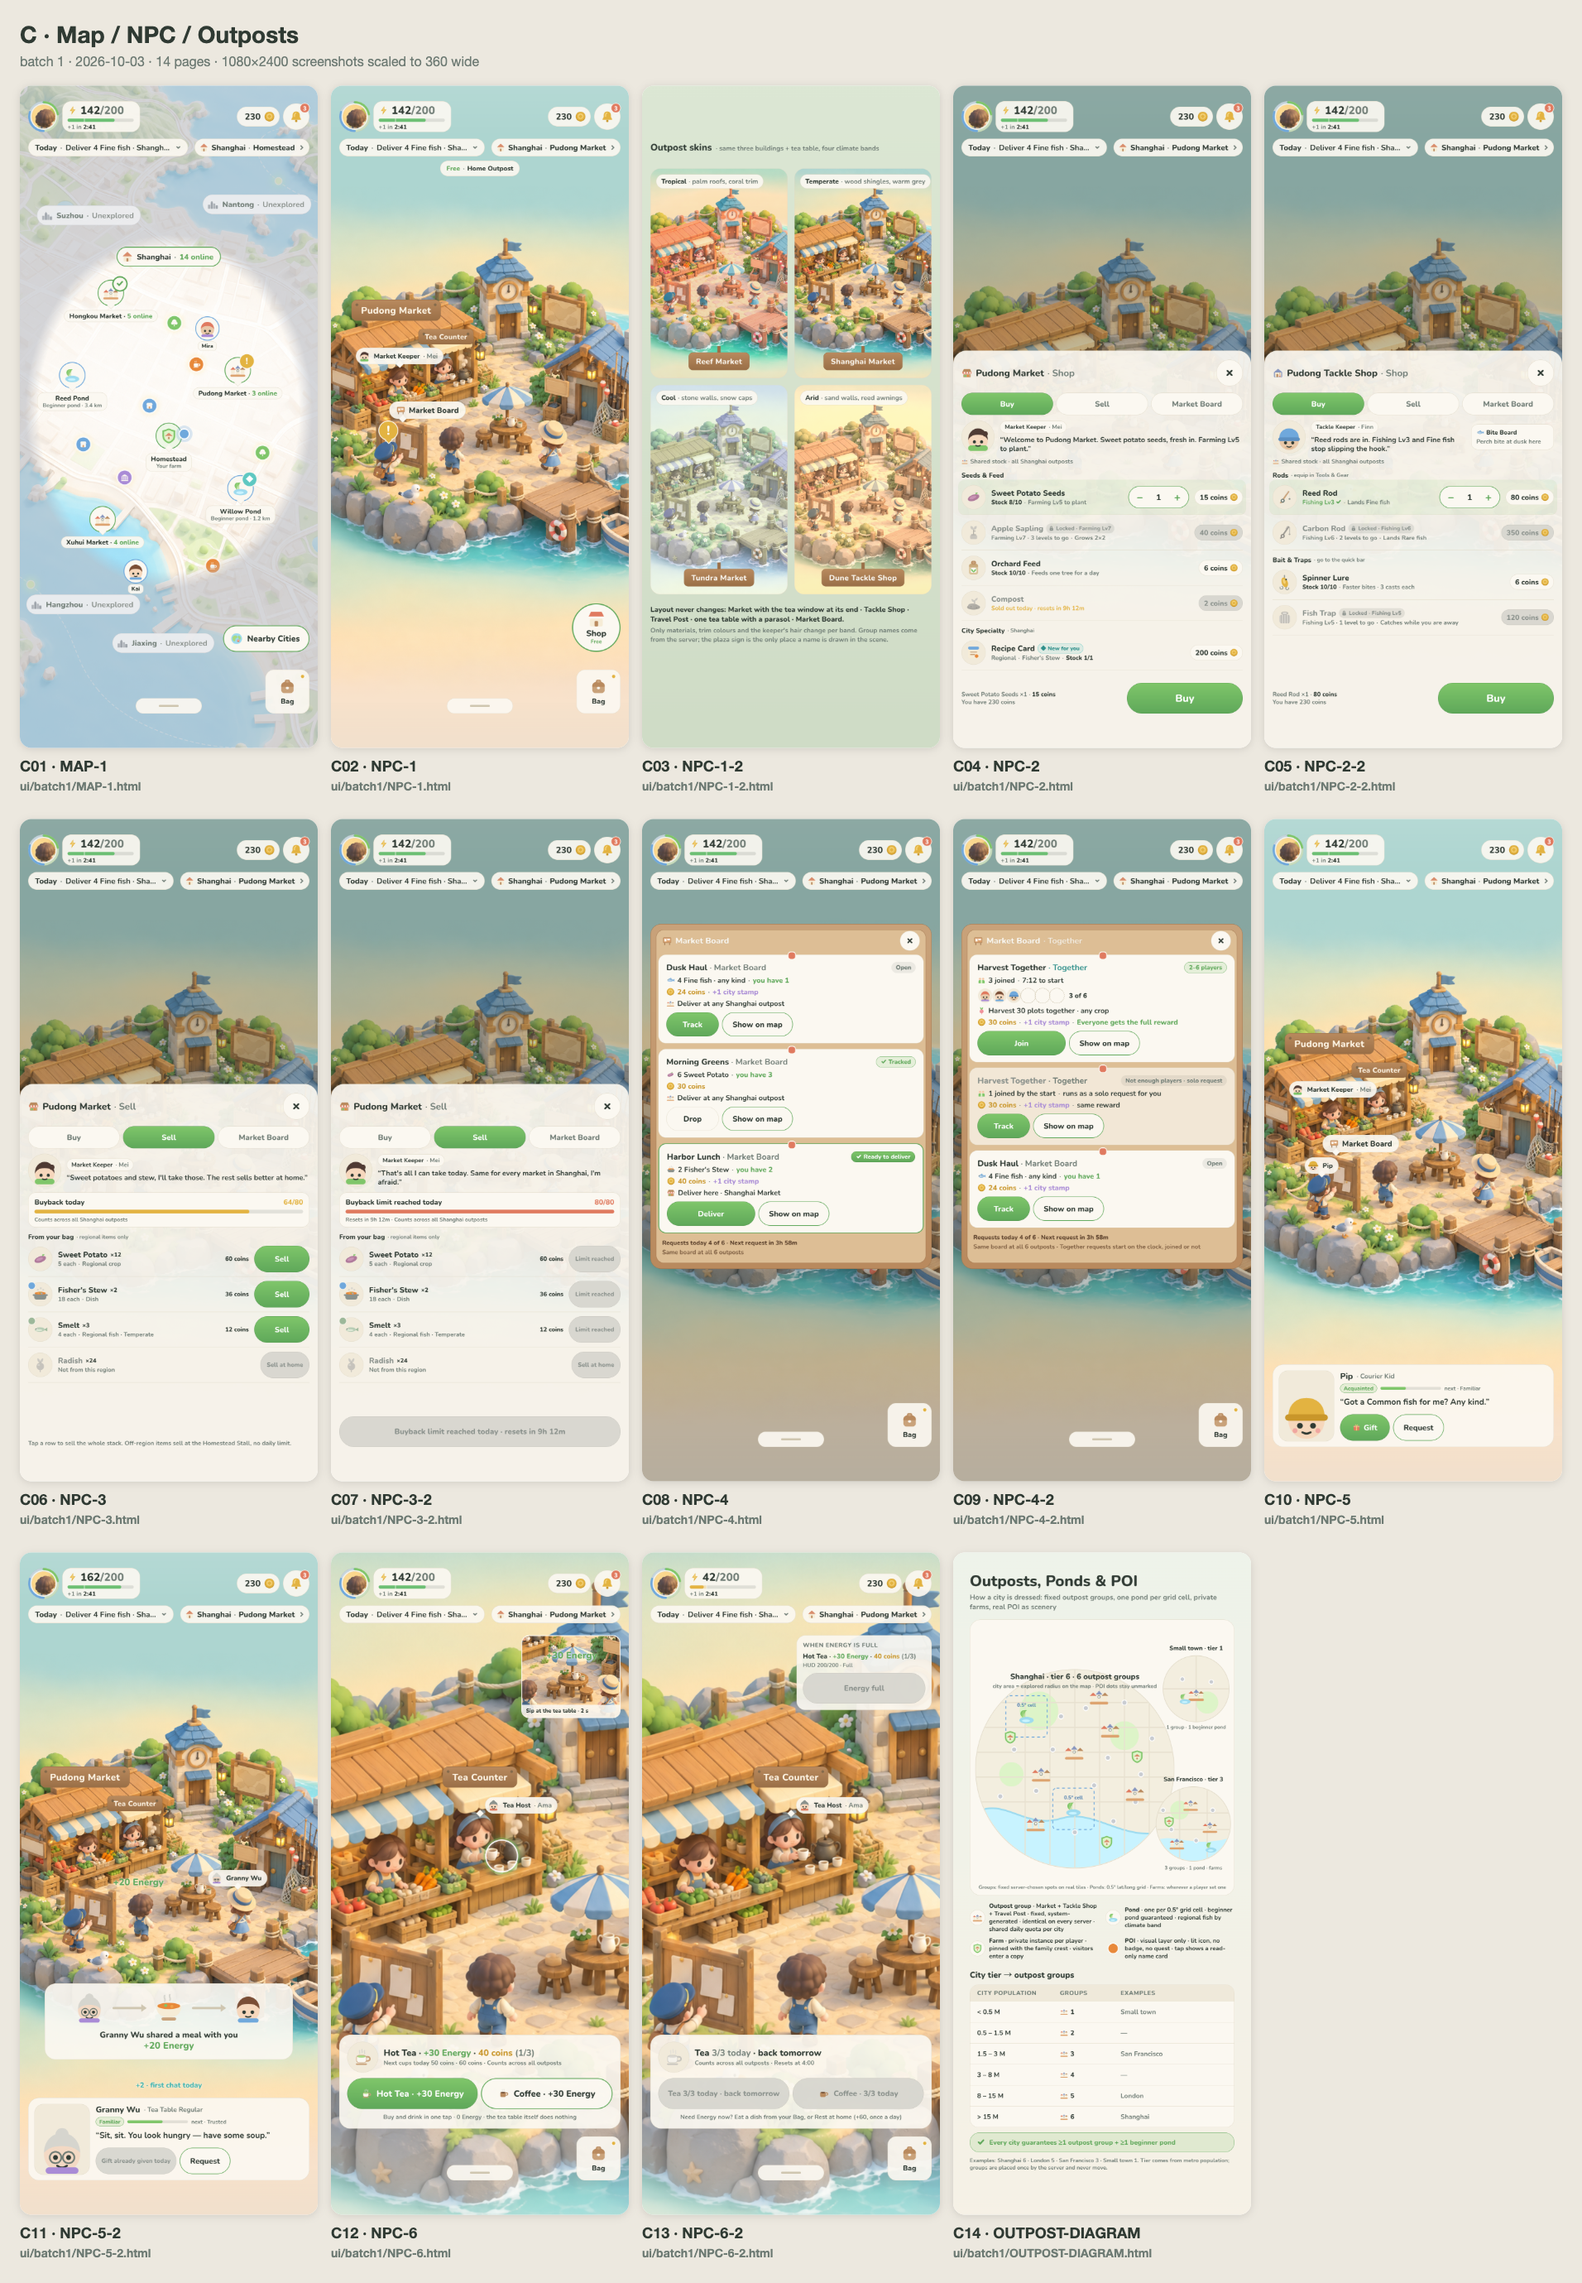
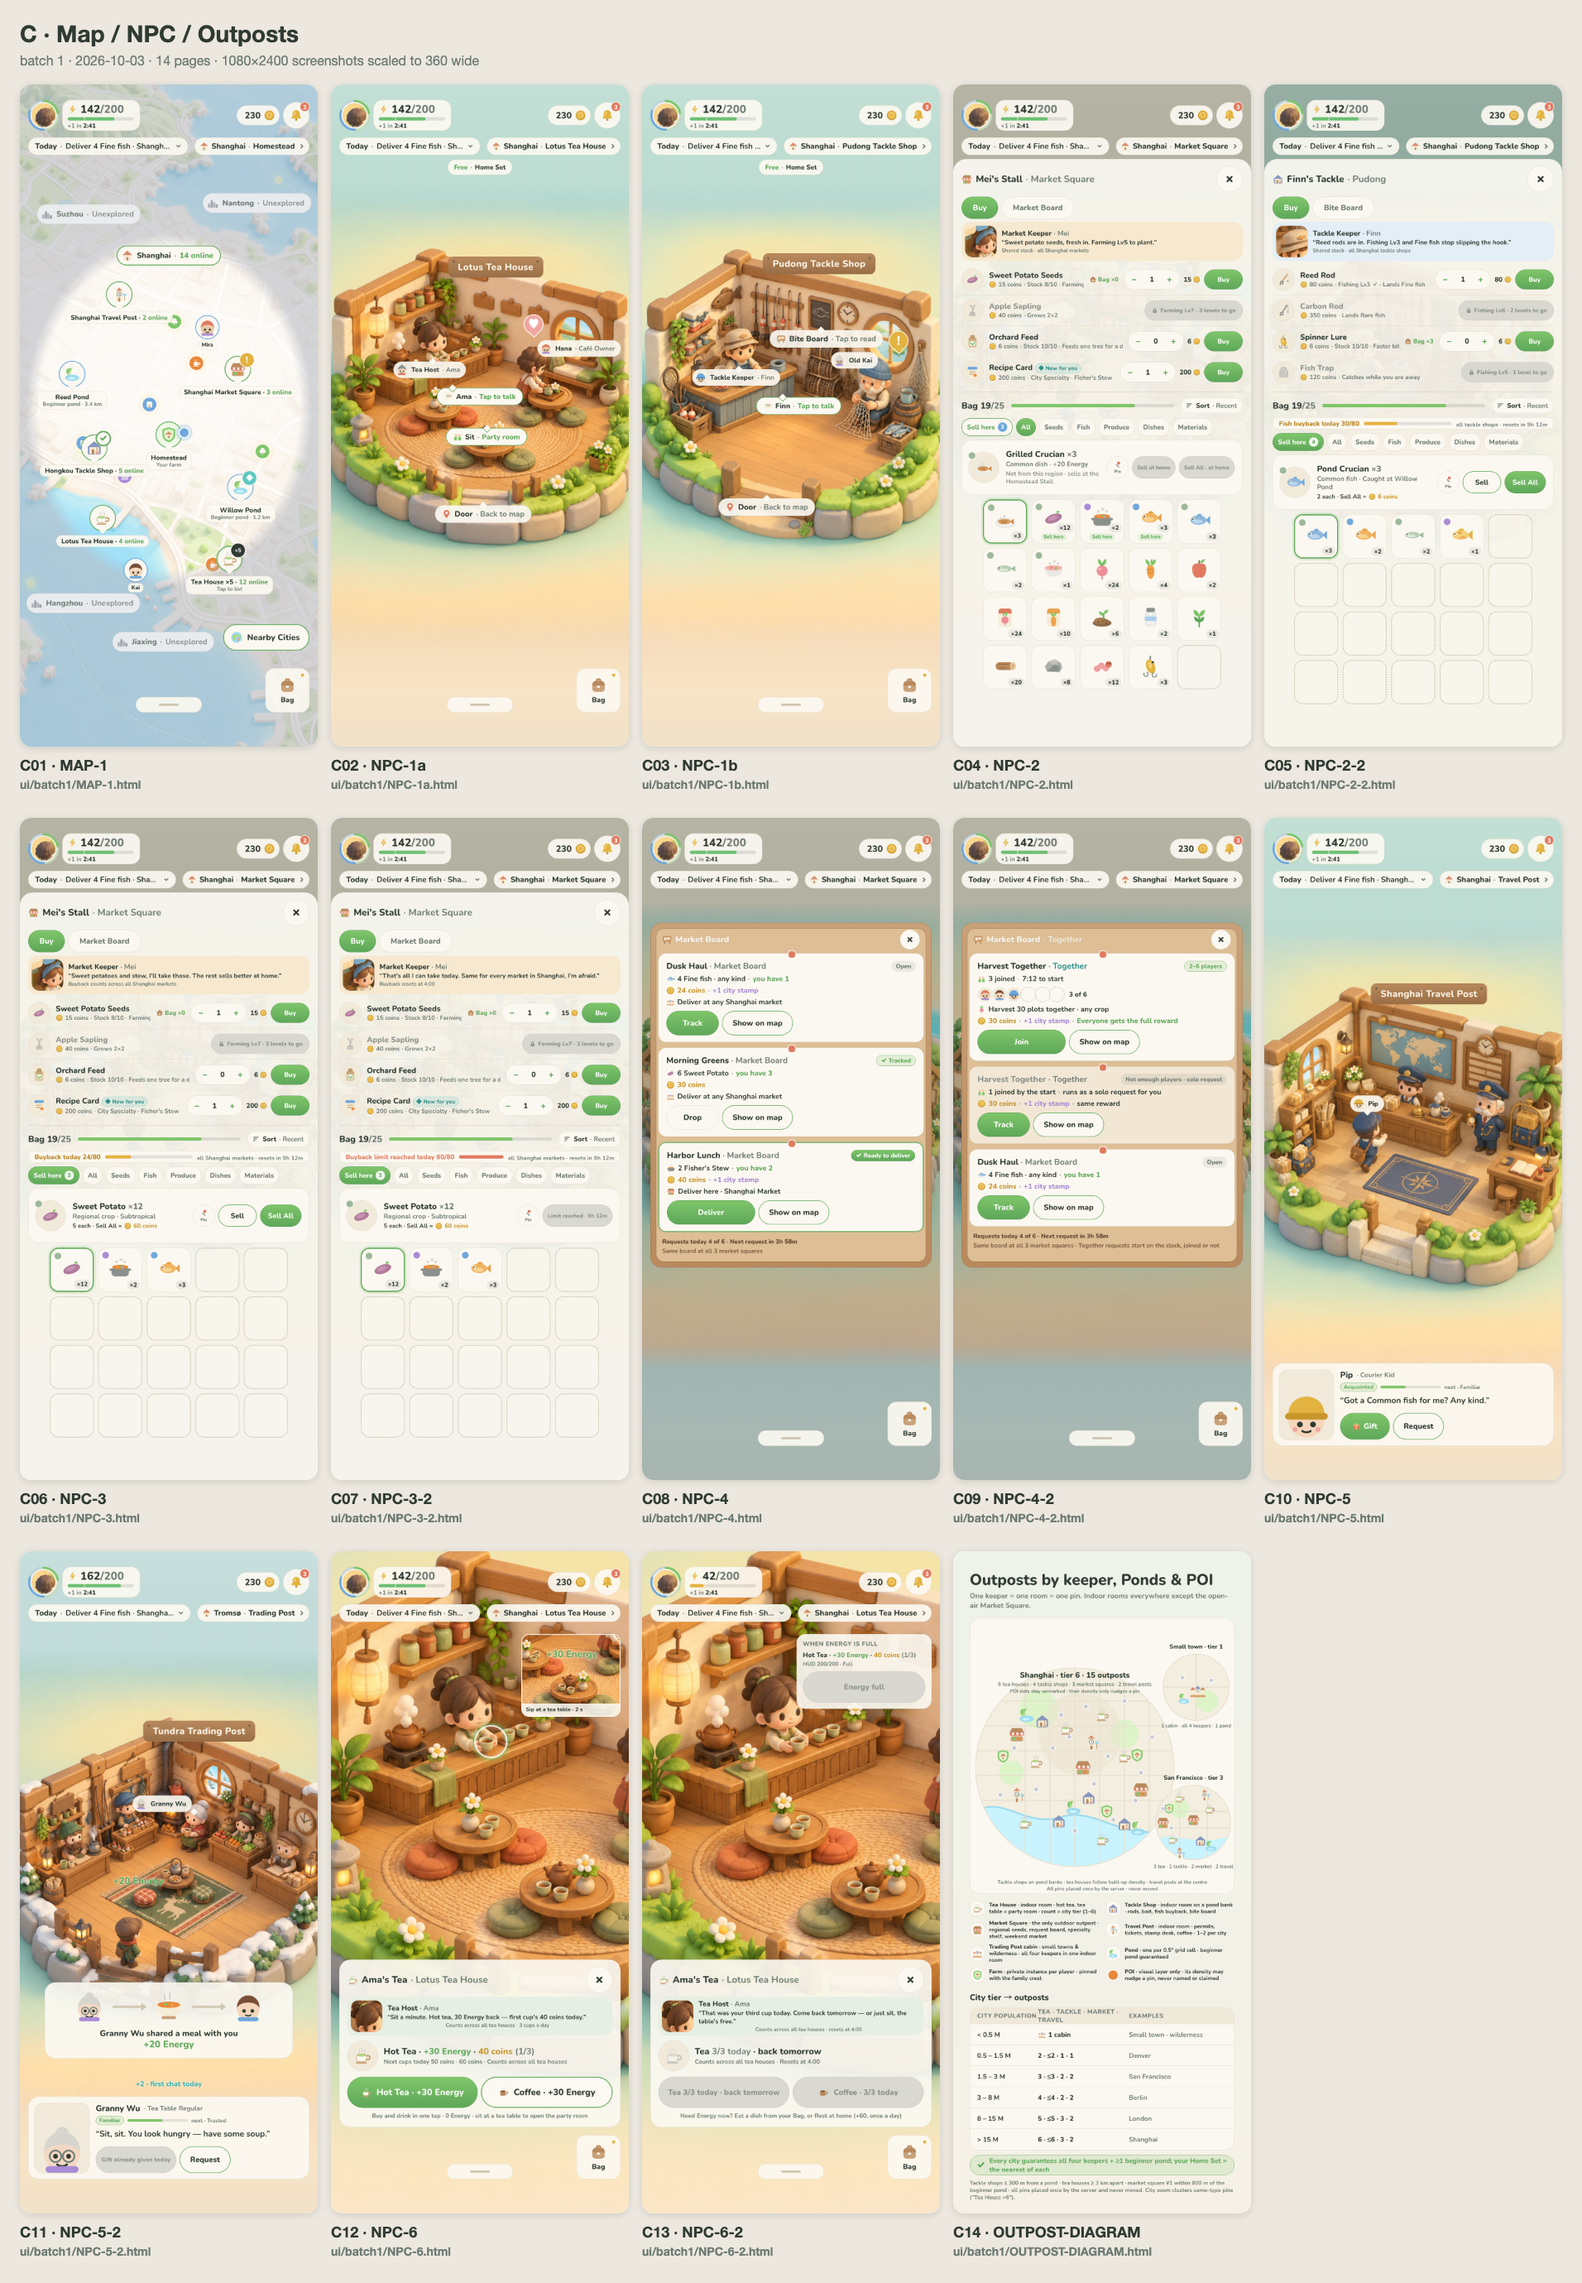
docs(design): drop the discarded outpost plaza scene and the old NPC-1 / NPC-1-2 pages; contact sheet C points at NPC-1a / NPC-1b

diff --git a/docs/design/ui-anchors-2026-10-03/ui/contact-batch1-C.html b/docs/design/ui-anchors-2026-10-03/ui/contact-batch1-C.html
@@ -13,8 +13,8 @@
 <h1>C · Map / NPC / Outposts</h1><p class="sub">batch 1 · 2026-10-03 · 14 pages · 1080×2400 screenshots scaled to 360 wide</p>
 <div class="grid">
 <figure><img src="../out/batch1/MAP-1.png" alt="MAP-1"><figcaption>C01 · MAP-1<small>ui/batch1/MAP-1.html</small></figcaption></figure>
-<figure><img src="../out/batch1/NPC-1.png" alt="NPC-1"><figcaption>C02 · NPC-1<small>ui/batch1/NPC-1.html</small></figcaption></figure>
-<figure><img src="../out/batch1/NPC-1-2.png" alt="NPC-1-2"><figcaption>C03 · NPC-1-2<small>ui/batch1/NPC-1-2.html</small></figcaption></figure>
+<figure><img src="../out/batch1/NPC-1a.png" alt="NPC-1a"><figcaption>C02 · NPC-1a<small>ui/batch1/NPC-1a.html</small></figcaption></figure>
+<figure><img src="../out/batch1/NPC-1b.png" alt="NPC-1b"><figcaption>C03 · NPC-1b<small>ui/batch1/NPC-1b.html</small></figcaption></figure>
 <figure><img src="../out/batch1/NPC-2.png" alt="NPC-2"><figcaption>C04 · NPC-2<small>ui/batch1/NPC-2.html</small></figcaption></figure>
 <figure><img src="../out/batch1/NPC-2-2.png" alt="NPC-2-2"><figcaption>C05 · NPC-2-2<small>ui/batch1/NPC-2-2.html</small></figcaption></figure>
 <figure><img src="../out/batch1/NPC-3.png" alt="NPC-3"><figcaption>C06 · NPC-3<small>ui/batch1/NPC-3.html</small></figcaption></figure>

diff --git a/docs/design/ui-anchors-2026-10-03/ui/kit-npc.css b/docs/design/ui-anchors-2026-10-03/ui/kit-npc.css
@@ -740,7 +740,7 @@
 .mini-card .h { font-size: 22px; font-weight: 800; color: var(--ink-2); text-transform: uppercase; letter-spacing: 1px; }
 .mini-card .btn { width: 100%; margin-top: 14px; font-size: 28px; padding: 0 20px; }
 
-/* ---------- four-up climate thumbnails (NPC-1-2) ---------------------------- */
+/* ---------- four-up climate thumbnails (NPC-1-2, page deleted 2026-10-04) ------ */
 .quad {
   position: absolute;
   left: var(--m); right: var(--m);
@@ -758,7 +758,7 @@
   background: linear-gradient(to bottom, #ADD5D0, #F7D9BB);
   border: 1px solid var(--card-edge);
 }
-/* outpost.png at 0.625 (640 wide): island src x 15…983 / y 169…1144 → cell x −62…543 (50 px cropped each side), y 76…685 */
+/* (deprecated 2026-10-04 with the outpost plaza; kept only so old pages do not break) */
 .quad .skin img { position: absolute; left: -71px; top: -30px; width: 640px; height: auto; display: block; }
 .quad .skin .sign {
   position: absolute;

diff --git a/docs/design/ui-anchors-2026-10-03/ui/batch1/NPC-6.html b/docs/design/ui-anchors-2026-10-03/ui/batch1/NPC-6.html
@@ -11,7 +11,7 @@
 <link rel="stylesheet" href="../kit-npc.css">
 </head>
 <!-- NPC-6 (group npc): close-up of the tea window at the right end of the Market counter (no separate tea house).
-     Same outpost.png, camera zoomed: canvas = source × 2.4 + (−425, −272), the window (src 402, 530) lands at canvas (540, 1000).
+     tea-house.png, camera zoomed: canvas = source × 2.0 + (−220, −440), the counter (src 380, 600) lands at canvas (540, 760).
      Tea Host · Ama hands a cup across; card "Hot Tea · +30 Energy · 40 coins (1/3)"; buttons Hot Tea / Coffee; inset: carrying the cup to the tea table, HUD +30. -->
 <body class="scene-cam" style="--scene-top:#BEDDD2; --scene-bottom:#F7DCB5; --src-w:1024px; --src-h:1536px; --cam-scale:2.0; --cam-x:-220px; --cam-y:-440px;">
 <div class="canvas">

diff --git a/docs/design/ui-anchors-2026-10-03/ui/batch1/MANIFEST-npc.md b/docs/design/ui-anchors-2026-10-03/ui/batch1/MANIFEST-npc.md
@@ -99,3 +99,5 @@ ui/batch1/MANIFEST-npc.md
 |---|---|---|
 | NPC-6 / 6-2 | 点单卡顶部加 "Ama's Tea · Lotus Tea House" + ✕ 与掌柜栏 `.kpanel.is-tea`（Ama 近景 + 气泡 + 小字）；原柜台上方的 Tea Host 名牌去掉 | `.kpanel` 规则已做成全局（不只 `.drawer.is-counter`） |
 | NPC-7（新） | 驿站室内压暗；抽屉 `.drawer.is-counter.is-post`（1720 高）："Sigrid's Desk · Travel Post"，Tab Permits / Passport / Fares，掌柜栏藏青底；两张 `.pcard`（Travel Permit / Long-haul Ticket）：`.how` 配方行、`.pchip` 材料 / 条件芯片（✓ 绿框、灰不满足）、Craft / Buy；页脚 Coffee · Travel Biscuits · 盖章台 | **坑**：卡内类名不能叫 `.recipe` / `.chip`，会撞 kit.css 的配方行与 HUD 芯片样式 |
+
+- 2026-10-04 夜清理：删除作废的据点组广场底图 `scenes/outpost.png`（含 .log / .prompt.txt）与旧页面 `NPC-1.html` / `NPC-1-2.html` 及其渲染图（Figma 卡已分别换成 NPC-1a / NPC-1b）；`contact-batch1-C` 对应两格改指 NPC-1a / NPC-1b 并重出。
